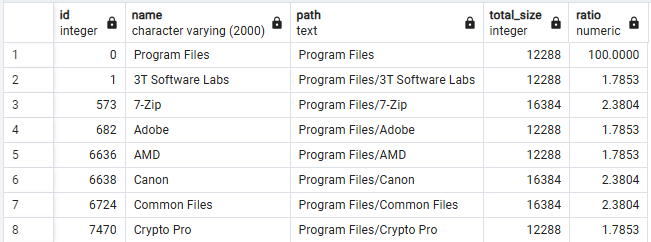
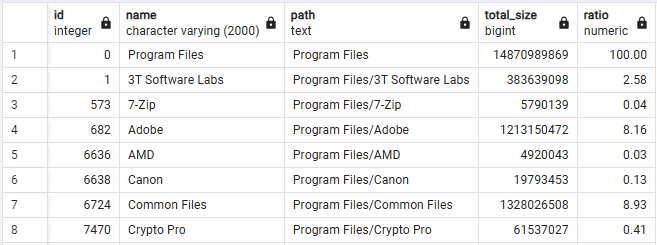
Queries 2 and 3 rewritten using a PL/pgSQL function

Changed region(s): [[0.0, 0.0, 1.0, 1.0], [0.0614, 0.0289, 0.4916, 0.1736]]

diff --git a/HW4/queries.md b/HW4/queries.md
@@ -13,37 +13,72 @@ SELECT id, name, path
 FROM t1
 WHERE type = 'DIR';
 
+-- Напишем вспомогательную функцию на PL/pgSQL
+CREATE OR REPLACE FUNCTION calculate_dir_size(dir_id INT)
+RETURNS BIGINT AS $$
+DECLARE
+    total_size BIGINT = 0;
+    _dir_id INT;
+BEGIN
+    SELECT COALESCE(SUM(file_size), 0) INTO total_size
+    FROM file_system
+    WHERE parent_id = dir_id AND type = 'FILE';
+
+    FOR _dir_id IN
+        SELECT id
+        FROM file_system
+        WHERE parent_id = dir_id AND type = 'DIR'
+    LOOP
+        total_size = total_size + calculate_dir_size(_dir_id);
+    END LOOP;
+
+    RETURN total_size;
+END;
+$$ LANGUAGE plpgsql;
+
 -- 2
 WITH RECURSIVE t1 AS (
-    SELECT id, parent_id, name, type, name::TEXT AS path, file_size AS total_size
+    SELECT id, parent_id, name, type, file_size, name::TEXT AS path
     FROM file_system
     WHERE parent_id IS NULL
     UNION ALL
-    SELECT fs.id, fs.parent_id, fs.name, fs.type, t1.path||'/'||fs.name, t1.total_size + fs.file_size
+    SELECT fs.id, fs.parent_id, fs.name, fs.type, fs.file_size, t1.path||'/'||fs.name
     FROM file_system fs
     JOIN t1 ON fs.parent_id = t1.id
 )
-SELECT id, name, path, total_size
+SELECT id, name, path,
+	CASE 
+	    WHEN type = 'FILE' THEN file_size
+	    WHEN type = 'DIR' THEN calculate_dir_size(id)
+	END AS total_size
 FROM t1
 WHERE type = 'DIR';
 
 -- 3
 WITH RECURSIVE t1 AS (
-    SELECT id, parent_id, name, type, name::TEXT AS path, file_size AS total_size
+    SELECT id, parent_id, name, type, file_size, name::TEXT AS path, 1 AS level
     FROM file_system
     WHERE parent_id IS NULL
     UNION ALL
-    SELECT fs.id, fs.parent_id, fs.name, fs.type, t1.path||'/'||fs.name, t1.total_size + fs.file_size
+    SELECT fs.id, fs.parent_id, fs.name, fs.type, fs.file_size, t1.path||'/'||fs.name, t1.level + 1
     FROM file_system fs
     JOIN t1 ON fs.parent_id = t1.id
 ), t2 AS (
-	SELECT parent_id, SUM(total_size) AS total_size
-    FROM t1
-    GROUP BY parent_id
+	SELECT id, parent_id, name, type, path, level,
+	    CASE 
+	        WHEN type = 'FILE' THEN file_size
+	        WHEN type = 'DIR' THEN calculate_dir_size(id)
+	    END AS total_size
+	FROM t1
+), t3 AS (
+	SELECT id, parent_id, name, type, path, level, total_size, SUM(total_size) OVER (PARTITION BY parent_id) AS parent_dir_size,
+		ROUND(COALESCE(total_size / NULLIF(SUM(total_size) OVER (PARTITION BY parent_id), 0), 1) * 100, 2) AS ratio
+	FROM t2
+	ORDER BY level, parent_id, id
 )
-SELECT t1.id, t1.name, t1.path, t1.total_size,
-	ROUND(t1.total_size::NUMERIC * 100 / COALESCE(t2.total_size, t1.total_size), 4) AS ratio
-FROM t1
-LEFT JOIN t2 ON t1.parent_id = t2.parent_id;
+
+SELECT id, name, path, total_size, ratio
+FROM t3
+WHERE type = 'DIR';
 ```
 ![](screenshot.PNG)
